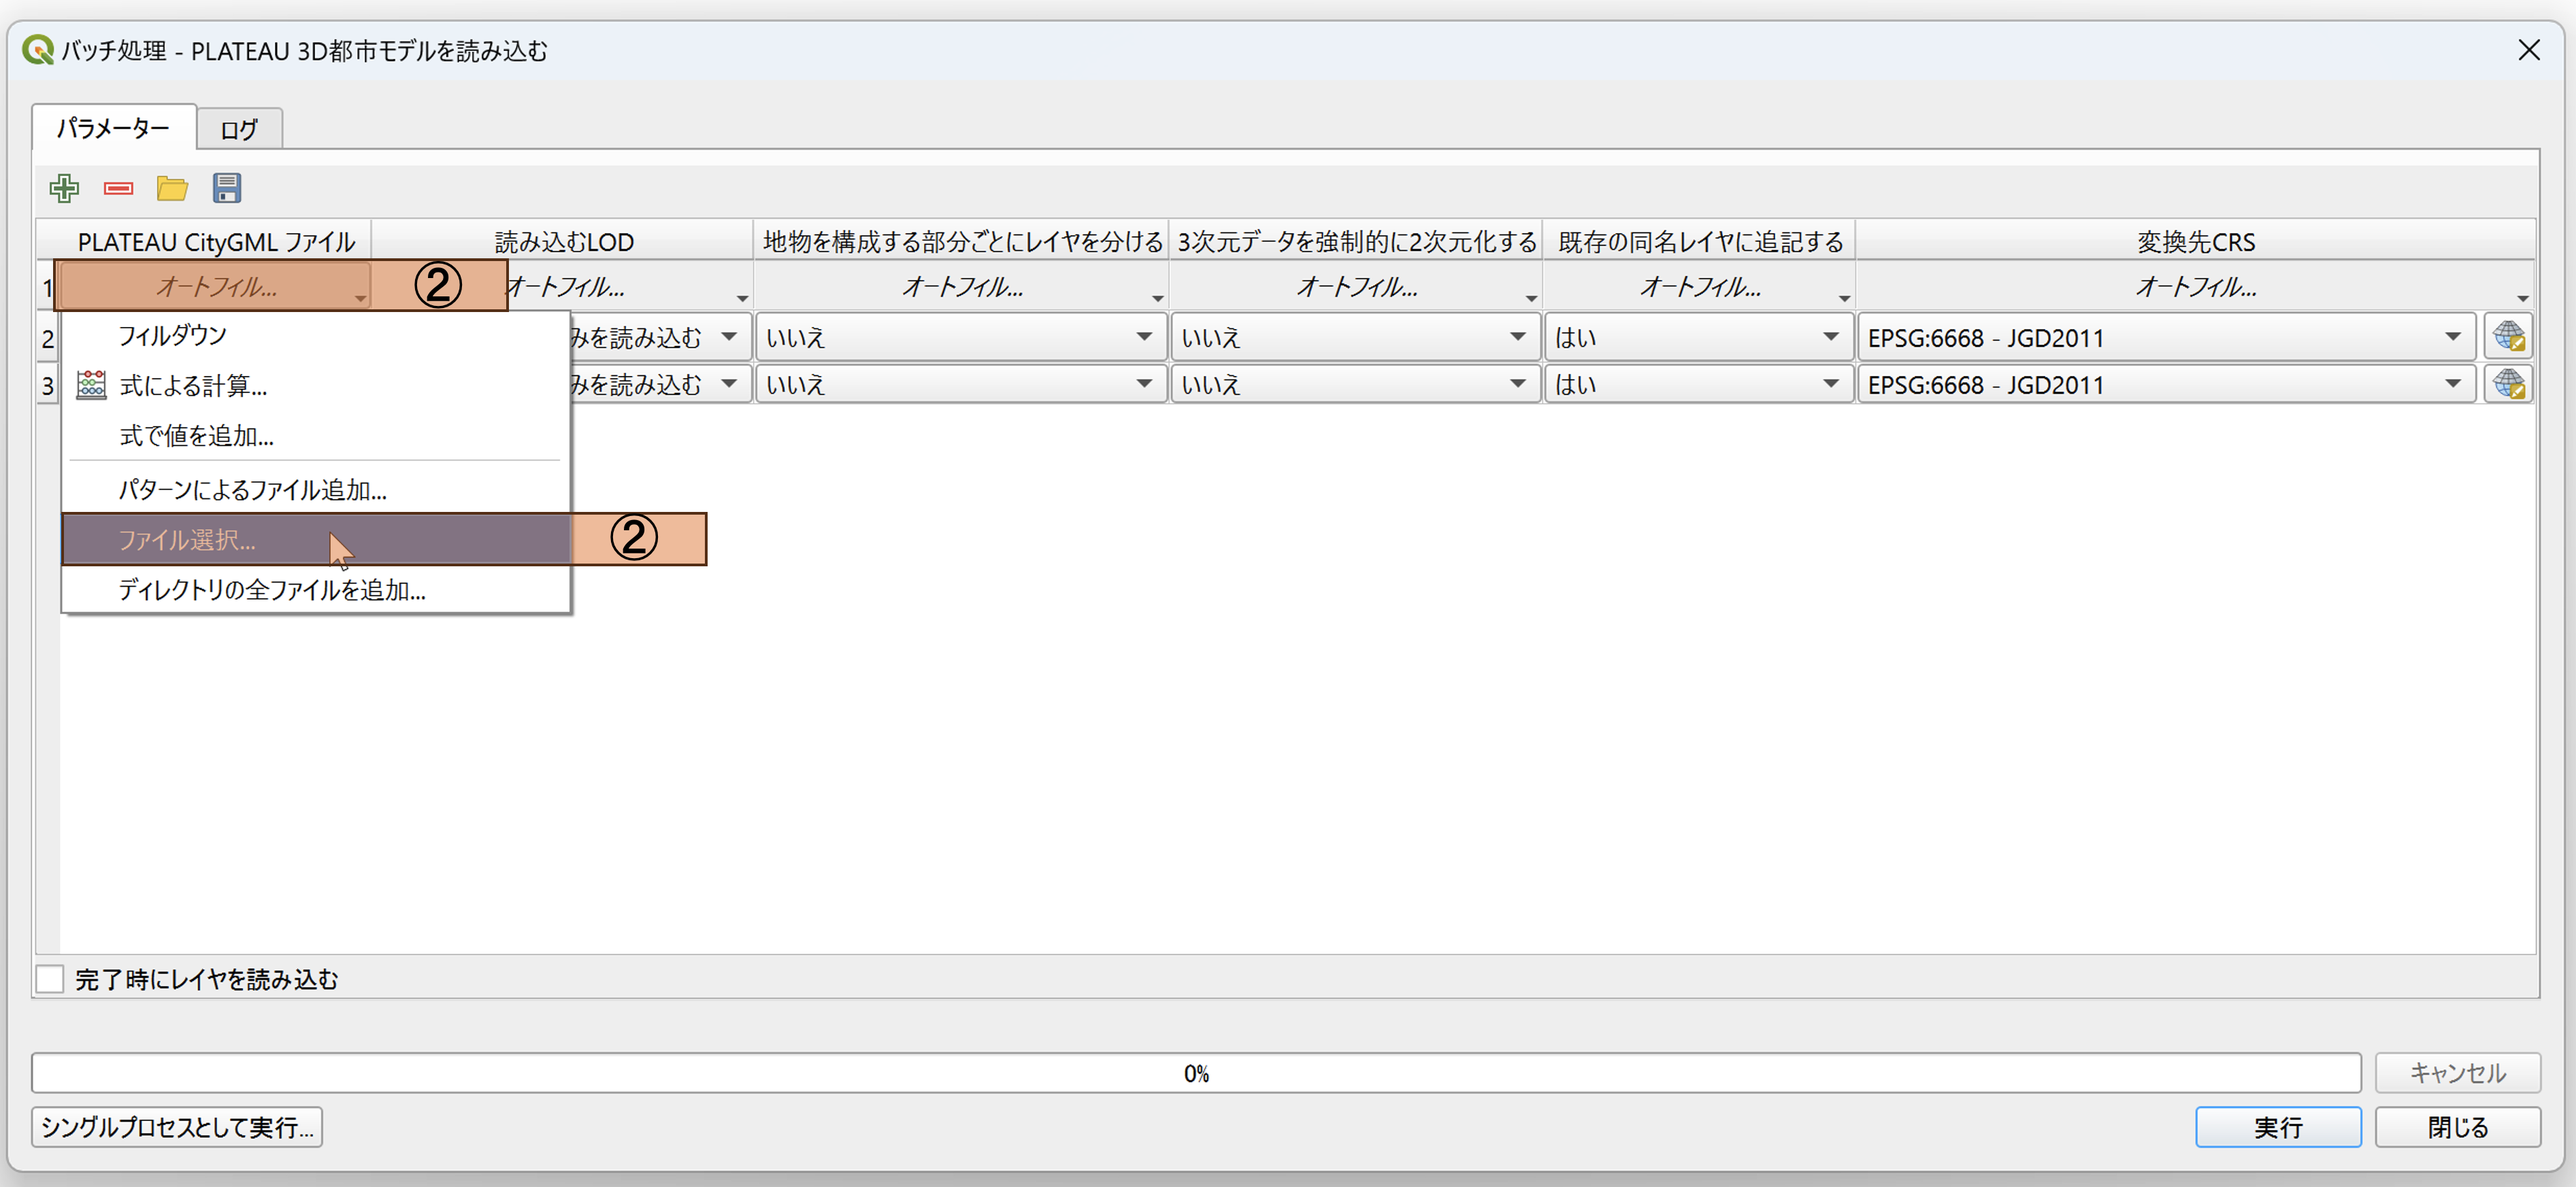
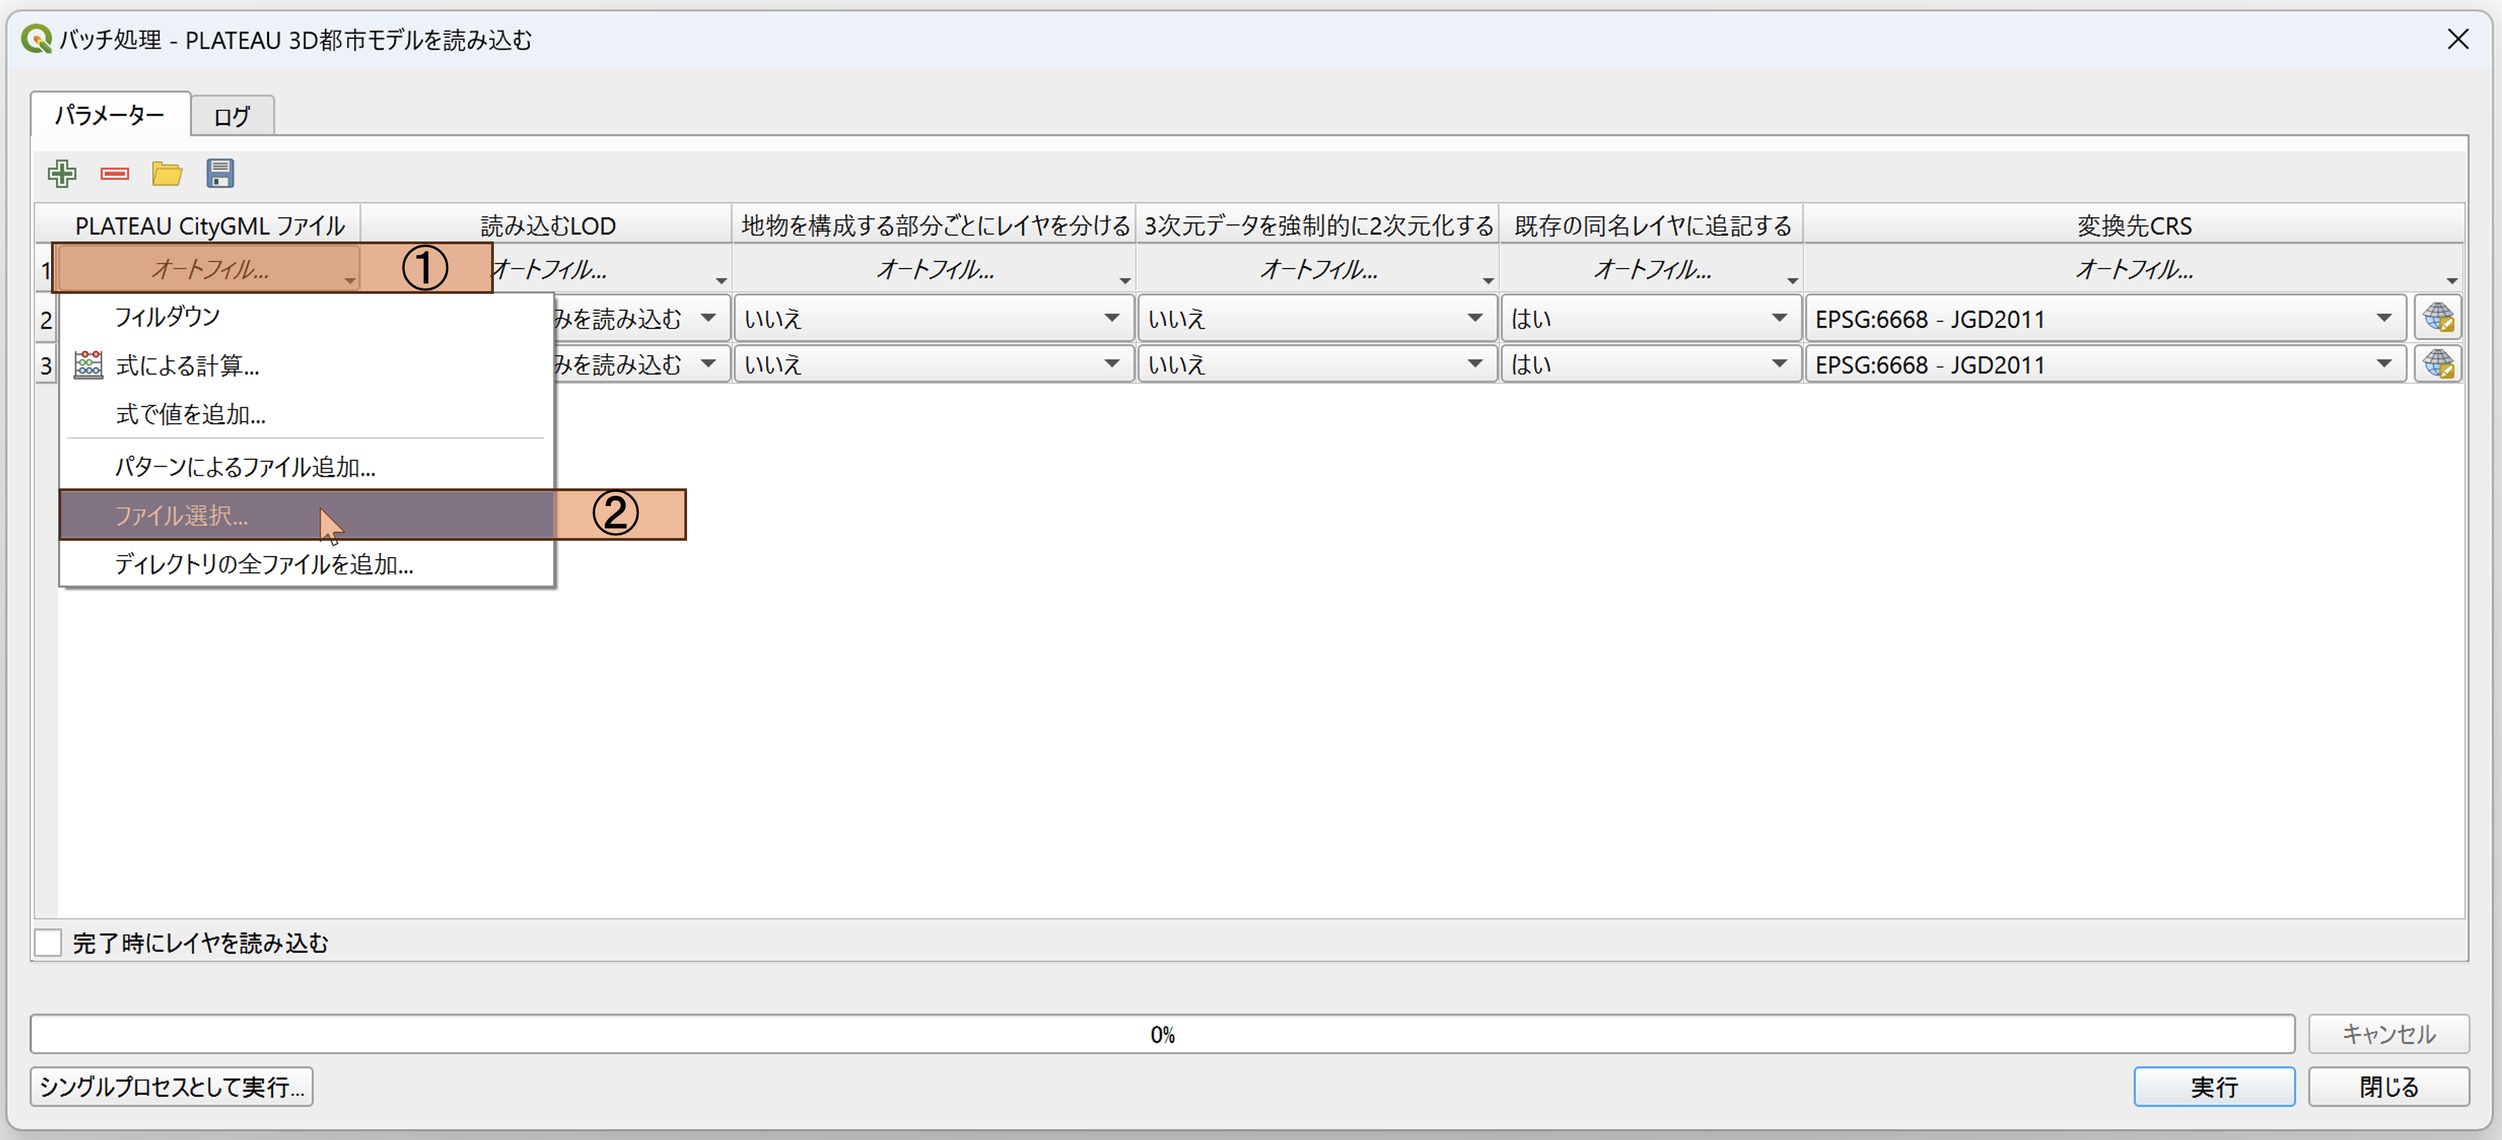
画像を変更

Changed region(s): [[0.0, 0.0, 1.0, 0.9928], [0.0, 0.8067, 0.155, 0.8377]]

diff --git a/docs/manual2.md b/docs/manual2.md
@@ -105,7 +105,7 @@ QGISを起動
 7. 既存の同名レイヤに追記する[オプション] (デフォルトでチェック)
 
 8. 変換先CRS[オプション]
-> 変換先のCRSを指定します。(デフォルトで EPSG:4326 (WGS84))
+> 変換先のCRSを指定します。(デフォルトで EPSG:6668 (JGD2011))
 
 9. ｢実行｣を押下して処理を実行
 > 処理が完了すると、QGISのレイヤパネルに読み込まれたデータが表示されます。
@@ -146,7 +146,7 @@ QGISを起動
     - 各地物の最高LODのみを読み込む (デフォルトYes)
     - 意味的な子要素に分ける (デフォルトNo)
     - 3次元データを強制的に2次元化する (デフォルトNo)
-    - 変換先CRS (デフォルトで EPSG:4326 [WGS84])
+    - 変換先CRS (デフォルトで EPSG:6668 (JGD2011))
 
 1. 完了時にレイヤーを読み込む
 2. ｢実行｣を押下して処理を実行
@@ -171,6 +171,7 @@ QGISを起動
 1.１番上の行の選択項目を設定し、オートフィルを選択
 2.フィルダウンを選択
 <img src="picture/operation09.png" width="500">
+<img src="picture/operation09-2.png" width="500">
 
 3.選択列の項目が１番目の値にすべて変更されます
 
@@ -184,7 +185,7 @@ QGISを起動
 
 2. バッチプロセスで実行をクリック
 
-<img src="picture/operation05.png" width="500">
+<img src="picture/operation11.png" width="500">
 
 3. パラメータタブにおいて、以下の項目を読み込みたいCityGMLの数だけ設定する。
 
@@ -194,15 +195,15 @@ QGISを起動
 1. 完了時にレイヤーを読み込む
 2. ｢実行｣を押下して処理を実行
 
-<img src="picture/operation06.png" width="500">
+<img src="picture/operation12.png" width="500">
 
 #### 上記以外にも、オートフィル機能を使って、複数のCityGMLファイルを一括読み込みすることが可能です。
 
 1.オートフィルを選択
 2.ファイルを選択
 
-<img src="picture/operation11.png" width="500">
+<img src="picture/operation13.png" width="500">
 
 3.フォルダーから読み込みたいCityGMLファイルを複数選択
 
-<img src="picture/operation12.png" width="500">
+<img src="picture/operation14.png" width="500">
